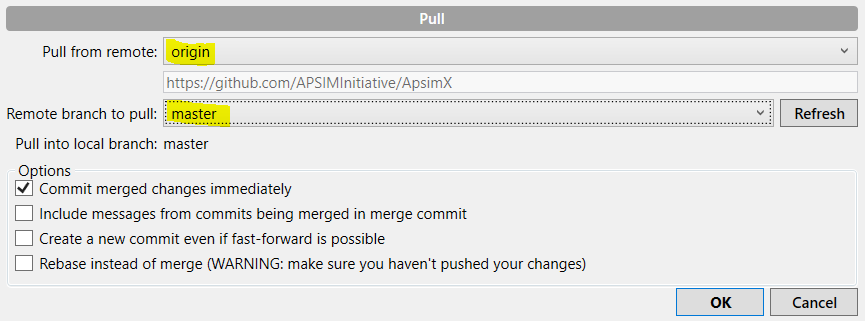
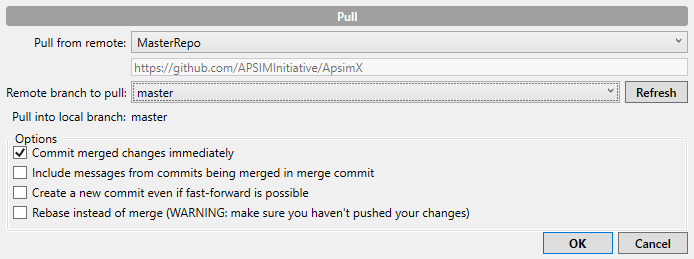
Added simpler GIT documentation

diff --git a/Docs/content/Development/GetSource.md b/Docs/content/Development/GetSource.md
@@ -1,23 +1,61 @@
 ---
-title: "Getting the source code"
+title: "GIT 1: Get source code from GitHub into new folder"
 draft: false
 ---
 
+## Create GitHub account
+
 The APSIM source code is located on GitHub so you will need to have a GitHub login if you want to contribute new features or modifications to the APSIM repository.
+
+## Fork the two repositories
 
 There are two repositories: 
 
-[https://github.com/APSIMInitiative/ApsimX](https://github.com/APSIMInitiative/ApsimX) - This contains the main APSIM source code of the infrastructure and all models.
+1. [https://github.com/APSIMInitiative/ApsimX](https://github.com/APSIMInitiative/ApsimX) - This contains the main APSIM source code of the infrastructure and all models.
 
-[https://github.com/APSIMInitiative/APSIM.Shared](https://github.com/APSIMInitiative/APSIM.Shared) - This contains many utilities and classes that are shared between many projects.
+2. [https://github.com/APSIMInitiative/APSIM.Shared](https://github.com/APSIMInitiative/APSIM.Shared) - This contains many utilities and classes that are shared between many projects.
 
 Both of these will need to be 'forked' to your GitHub account. A fork creates a clone of the main repositories. Look for the fork link in the top right hand corner of the APSIM repository on GitHub. Clicking this will create a copy of the APSIM repository in your GitHub account.
+
+## Clone both repositories to your computer
 
 To bring the source code from your GitHub account to your computer, you will need to clone the repository. We recommend you use a Git client. We recommend [SourceTree](http://www.sourcetreeapp.com) for this. Once you have SourceTree installed on your computer, goto *File | Clone* menu item.
 
 
-Click the 'Clone / New' button in SourceTree and specify the URL for your GitHub fork. e.g.
+Click the 'Clone / New' button in SourceTree and specify:
 
-![SourceTreeClone](/images/Development.SourceTreeClone.png)
+* Source Path / URL: https://github.com/APSIMInitiative/ApsimX
+* Destination Path: C:\Work\ApsimX   <- this is the folder on your computer 
+* Name: MasterRepo   <- This is the name that this respository will be known by
 
-You then need to do the same for the APSIM.Shared repository. The ApsimX and APSIM.Shared folders should be sibling folders on your computer e.g. you if used c:\Work as the root folder for the two repositories, you should end up with a c:\Work\ApsimX and a c:\Work\Apsim.Shared folder.
+Once you click 'Clone', all files will be downloaded to your computer into the destination path that you specified above. SourceTree will create a tab for your new clone.
+
+## Add a second remote repository
+
+If you look at your repository settings (Repository | Repository Settings menu) you will see a single remote repository called MasterRepo that points to the main ApsimX repository. You now need to create a link to another remote repository, the one you 'forked' earlier. Click 'Add' and enter:
+
+* Remote name: hol353   <- the username of your GitHub account.
+* URL / Path: https://github.com/hol353/ApsimX
+* Host Type: GitHub
+* Username: hol353       <- GitHub user name 
+
+We suggest you name the remote repository the same as your GitHub user name, hence the need to enter it twice. The reason for linking to two repositories will become evident later. You ALWAYS **pull** from the ApsimX repository and **push** to your forked repository.
+
+## APSIM.Shared
+ 
+You then need to do the same for the APSIM.Shared repository. The ApsimX and APSIM.Shared folders should be sibling folders on your computer e.g. you if used C:\Work as the root folder for the two repositories, you should end up with a C:\Work\ApsimX and a C:\Work\Apsim.Shared folder.
+
+### Clone settings
+
+Click the 'Clone / New' button in SourceTree and specify:
+
+* Source Path / URL: https://github.com/APSIMInitiative/APSIM.Shared
+* Destination Path: C:\Work\APSIM.Shared 
+* Name: MasterRepo
+
+Once all files have downloaded, create a link to a second repository:
+
+* Remote name: hol353   <- the username of your GitHub account.
+* URL / Path: https://github.com/hol353/APSIM.Shared
+* Host Type: GitHub
+* Username: hol353       <- GitHub user name 

diff --git a/Docs/content/Development/PushAndPullRequest.md b/Docs/content/Development/PushAndPullRequest.md
@@ -1,0 +1,49 @@
+---
+title: "GIT 4: Contributing changes back to the master repository"
+draft: false
+---
+
+## Push changes to a remote
+
+Once you're ready to share your commits with the wider APSIM community and have them merged into the master repository, you will need to push your commits to your forked remote repository (e.g. hol353). Doing a push won't impact on other developers and won't cause Jenkins to run the test suite. Pushing will allow other developers to pull from your branch on your repository so it is a good way to share what you are doing with others.
+
+![SourceTreeRemotes](/images/Development.SourceTreeRemotes.png) 
+
+In this image there are two remote repositories, hol353 (a developers remote) and MasterRepo (the main APSIM repository). **You should never push to the MasterRepo remote**. Instead, you push to your remote repository - *hol353* in this example. Click the push button.
+
+![SourceTreeRemotes](/images/Development.SourceTreePush.png)
+
+Always make sure the remote (highlighted in the above image) is your remote and not *MasterRepo*. You also need to tick the branch you want to push to your remote repository, in this case master.
+
+## Open a Pull Request
+
+Pull Requests initiate discussion about your commits. They say to other developers that you are wanting a peer review of your changes.
+
+You can open a Pull Request at any point during the development process: when you have little or no code but want to share some screenshots or general ideas, when you're stuck and need help or advice, or when you're ready for someone to review your work. By using GitHub's @mention system in your Pull Request message, you can ask for feedback from specific people or teams, whether they're down the hall or ten time zones away.
+
+
+### 1. Peer review
+
+Once a Pull Request has been opened, a developer will review your changes and may have questions or comments. Perhaps the coding style doesn't match project guidelines, the change is missing unit tests, or maybe everything looks great. Pull Requests are designed to encourage and capture this type of conversation.
+
+You can also continue to push to your branch in light of discussion and feedback about your commits. If someone comments that you forgot to do something or if there is a bug in the code, you can fix it in your branch and push up the change. GitHub will show your new commits and any additional feedback you may receive in the unified Pull Request view.
+
+### 2. Jenkins build and run system
+
+Jenkins will automatically run all pull requests and flag pass/fail with GitHub. If you have finished a piece of work then you need to state somewhere in the first comment box of the pull request:
+
+Resolves #45
+
+or 
+
+Working on #45
+
+This will alert the administrators of the APSIM repository that the pull request fixes issue number 45 (or you are working on it). All merges to master must have an issue describing the piece of work. T
+
+### 3. The APSIM Performance Testing site
+
+The APSIM Performance Testing suite will also test your pull request, calculating statistics on all predicted / observed data found and check them against the 'accepted' statistics. This will also be reported back to your pull request. 
+
+## Merging with the MasterRepo
+
+If the pull request has been reviewed by a developer, the Jenkins build system passes and the APSIM Performance Testing system also passes, the administrators will then merge the pull request with the master branch of the main repository and close the issue (if you specified 'resolves'). Once the issue is closed it should not be reopened.

diff --git a/Docs/content/Development/Commit.md b/Docs/content/Development/Commit.md
@@ -1,0 +1,30 @@
+---
+title: "GIT 3: Commit files"
+draft: false
+---
+
+## Commit
+
+If you have files that you have added or modified, you can commit them to GIT. This process of adding commits keeps track of your progress as you work on files in APSIM.
+
+Commits also create a transparent history of your work that others can follow to understand what you've done and why. Each commit has an associated commit message, which is a description explaining why a particular change was made. Furthermore, each commit is considered a separate unit of change. This lets you roll back changes if a bug is found, or if you decide to head in a different direction.
+
+Commit messages are important, especially since Git tracks your changes and then displays them as commits once they're pushed to the server. By writing clear commit messages, you can make it easier for other people to follow along and provide feedback.
+
+Commits are local to your computer only until you do a push to a remote repository. Click 'Commit':
+
+![SourceTreeRemotes](/images/Development.SourceTreeCommit.png)
+
+In the top left corner, SourceTree shows (by default) the files that you have been modified but haven't commited yet. If you have created new files that have never been commited they won't be shown yet. To see these files, change the drop down box from 'Modified files" to "Untracked". 
+
+* You can then right click on the untracked files and select "Add" to tell GIT to start tracking them. 
+* If you don't want to keep them, right click and select "Remove". **This will delete them from your folder**
+
+Change the drop down back to "Modified files"
+
+Clicking on a file will show you what you have changed. If you don't want to keep the changes you have made, right click on the file and select 'Discard'. 
+
+Tick the files you want to commit.
+
+Finally, at the bottom type in a commit message, make sure 'Push changes immediately...' is **unticked** and then click Commit. At this point, your new commit is only on your computer and noone else can see it. You can commit files as many times as you wish.
+

diff --git a/Docs/content/Development/BringUpToDate.md b/Docs/content/Development/BringUpToDate.md
@@ -1,0 +1,17 @@
+---
+title: "GIT 2: Bring your development folder up to date"
+draft: false
+---
+
+This document assumes that your APSIM Next Generation folder is C:\Work\ApsimX
+
+**NOTE:** Before you bring your folder up to date, you need to [commit or discard all files that you have added or modified](/development/commit). If you don't do this you may get errors during the pull process outlined below.
+
+## Pull
+
+To bring the current branch up to date you get the latest commits from the *master* branch in the *MasterRepo* repository. Click the pull button:
+
+![SourceTreeRemotes](/images/Development.SourceTreePull.png)
+
+Ensure the remote is *MasterRepo* and the branch is *master*. Leave all other checkboxes alone. This will bring down the latest commits from the MasterRepo/master branch into your 'current' branch (the one in bold in SourceTree).
+

diff --git a/Docs/content/Development/Compile.md b/Docs/content/Development/Compile.md
@@ -4,3 +4,8 @@ draft: false
 ---
 
 APSIM can be compiled using Microsoft Visual Studio 2013 or later, MonoDevelop or SharpDevelop. A single solution file exists in the root of the repository (ApsimX.sln). Building this solution will extract all 3rd party packages from NuGet and build everything. All executables will be built to the Bin folder.
+
+1. You need to copy the files from C:\Work\ApsimX\DeploymentSupport\Windows\Bin to your C:\Work\ApsimX\Bin folder
+2. You need to add oxyplot package source to NuGet. In Visual Studio, select Tools | NuGet Package Manager | Package Manager Settings menu item. Under the 'Package Sources' item in the tree on the left, add the oxyplot URL: https://www.myget.org/F/oxyplot
+
+![NuGet Package Sources](/images/Development.NuGetPackageSources.png)

diff --git a/Docs/content/Development/_index.md b/Docs/content/Development/_index.md
@@ -6,9 +6,11 @@ weight: 20
 
 # Tools and software process
 
-* [Get source code from GitHub](/development/getsource)
+* [GIT 1: Get source code from GitHub for the first time](/development/getsource)
+* [GIT 2: Bring your development folder up to date](/development/bringuptodate)
+* [GIT 3: Commit files](/development/commit)
+* [GIT 4: Contributing changes back to the master repository](/development/pushandpullrequest)
 * [Setup development environment to compile](/development/compile)
-* [Branching and Git](/development/branchingandgit)
 
 # Model development
 
